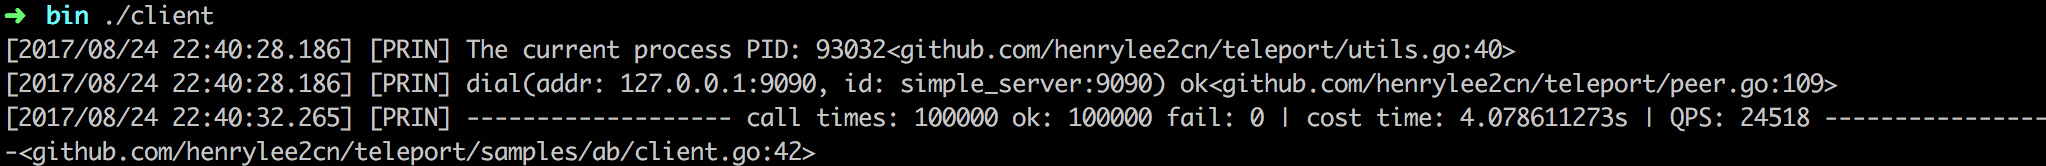
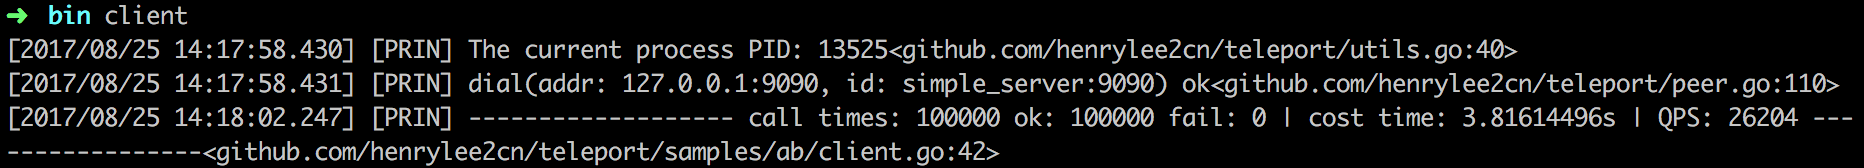
Update graceful and testing data

diff --git a/graceful.go b/graceful.go
@@ -65,11 +65,9 @@ func GraceSignal() {
 	graceful.GraceSignal()
 }
 
-// Reboot all the frame process gracefully.
-// Notes: Windows system are not supported!
-func Reboot(timeout ...time.Duration) {
-	graceful.Reboot(timeout...)
-}
+// FirstSweep is first executed.
+// BeforeExiting is executed before process exiting.
+var FirstSweep, BeforeExiting func() error
 
 // SetShutdown sets the function which is called after the process shutdown,
 // and the time-out period for the process shutdown.
@@ -84,17 +82,25 @@ func SetShutdown(timeout time.Duration, firstSweep, beforeExiting func() error) 
 	if beforeExiting == nil {
 		beforeExiting = func() error { return nil }
 	}
-	graceful.SetShutdown(timeout, func() error {
+	FirstSweep = func() error {
 		return errors.Merge(firstSweep(), peers.graceNet.SetInherited())
-	}, func() error {
+	}
+	BeforeExiting = func() error {
 		return errors.Merge(shutdown(), beforeExiting())
-	})
+	}
+	graceful.SetShutdown(timeout, FirstSweep, BeforeExiting)
 }
 
 // Shutdown closes all the frame process gracefully.
 // Parameter timeout is used to reset time-out period for the process shutdown.
 func Shutdown(timeout ...time.Duration) {
 	graceful.Shutdown(timeout...)
+}
+
+// Reboot all the frame process gracefully.
+// Notes: Windows system are not supported!
+func Reboot(timeout ...time.Duration) {
+	graceful.Reboot(timeout...)
 }
 
 func listen(laddr string, tlsConfig *tls.Config) (net.Listener, error) {

diff --git a/README.md b/README.md
@@ -10,7 +10,7 @@ It can be used for rpc, micro services, peer-peer, push services, game services 
 
 ![teleport_client](https://github.com/henrylee2cn/teleport/raw/master/doc/teleport_client.png)
 
-<center><i>Mac 4CPU 8GB: QPS 24500+</i></center>
+<center><i>AB Testing: [Mac 4CPU 8GB] [single-process single-conn] QPS 26200+</i></center>
 
 ## 1. Version
 
